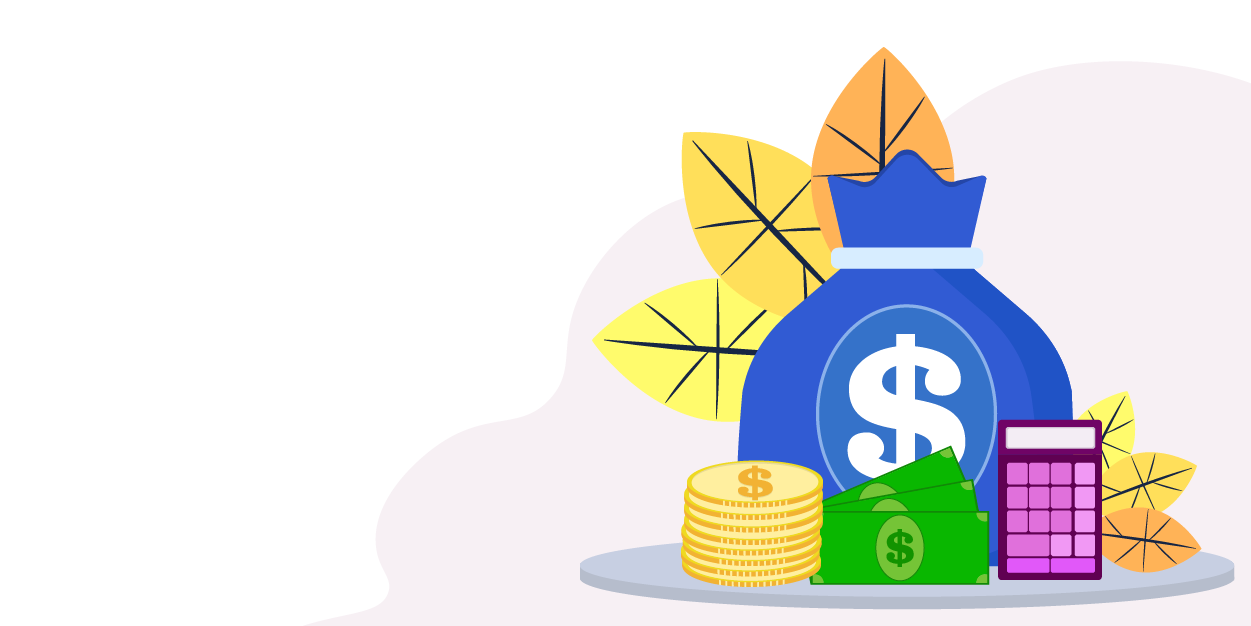
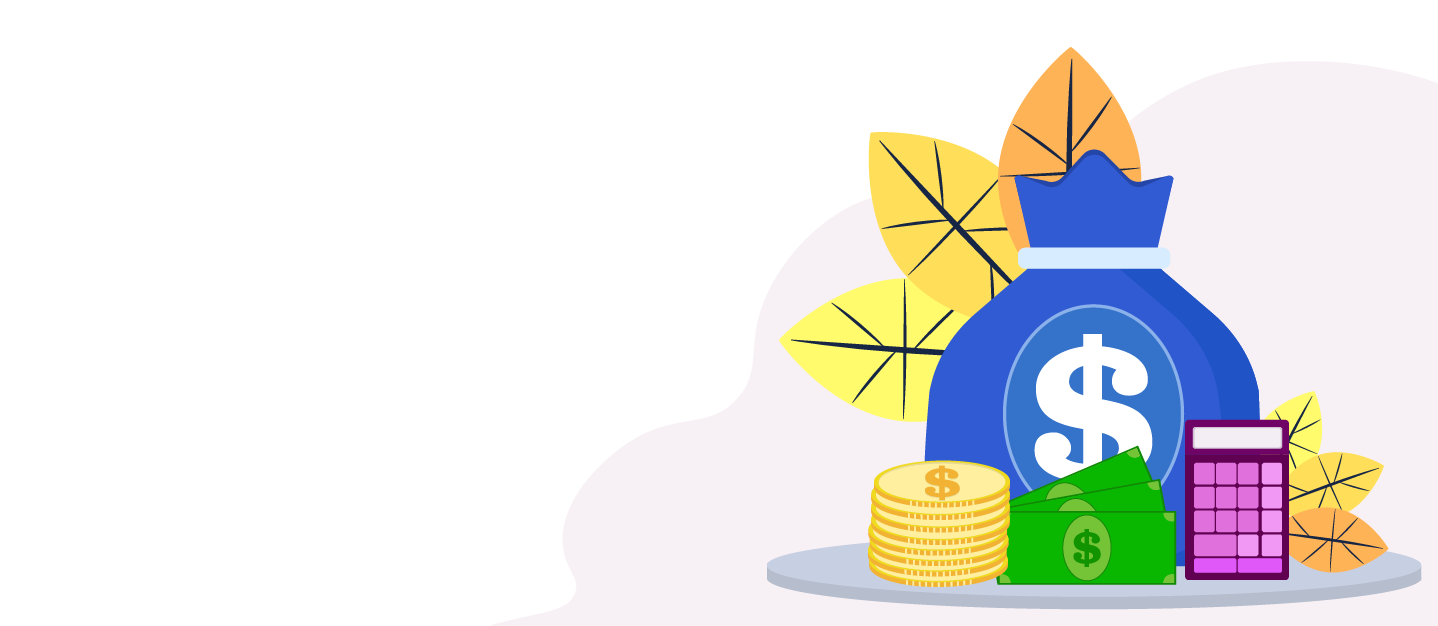
update jumbotron img

Changed region(s): [[0.4676, 0.0607, 0.9664, 0.9712]]

diff --git a/upperclass/index.html b/upperclass/index.html
@@ -12,8 +12,11 @@
     <div class="container-fluid">
         <div class="row">
             <!--title of app-->
-            <!-- <div class="bg-light header col-11 mx-auto p-3">
-            </div> -->
+            <div class="row">
+                <div class="bg-light header col-11 mx-auto p-3">
+                    <h1>Welcome to UPPERclassman</h1>
+                </div>
+            </div>
             <div class="row">
                 <div class="col-md-5 my-3">
                     <!--budget alert message-->
@@ -94,7 +97,7 @@
                 </div> -->
             </div>
         </div>
-        <footer class="navbar navbar-light bg-light home-foot">
+        <footer class="bg-light home-foot">
             <div class="budget-foot">
                 <h4 id="foot-name">Website by Chelsea S. Jackson</h4>
                 <button type="button" class="btn btn-info" id="port-foot" onclick="portOpen()" >Portfolio</button>

diff --git a/upperclass/style.css b/upperclass/style.css
@@ -11,15 +11,17 @@
     background: var(--mainWhite);
     color: var(--mainDark);
   }
-.container-fluid {
+/* .container-fluid {
   padding-top: 120px;
-}
+} */
   .header {
-    background-image: url(./budget-background\ [Recovered]-03.png);
-    background-position: unset;
-    background-size: 120vh;
+    background-image: url(./budget-background\ [Recovered]-03-03-03.png);
+    background-position: right;
+    background-size: auto;
     background-repeat: no-repeat;
     min-height: 400px;
+    border-bottom-left-radius: 3rem;
+    border-bottom-right-radius: 3rem;
   }
   .budget-feedback,
   .expense-feedback {
